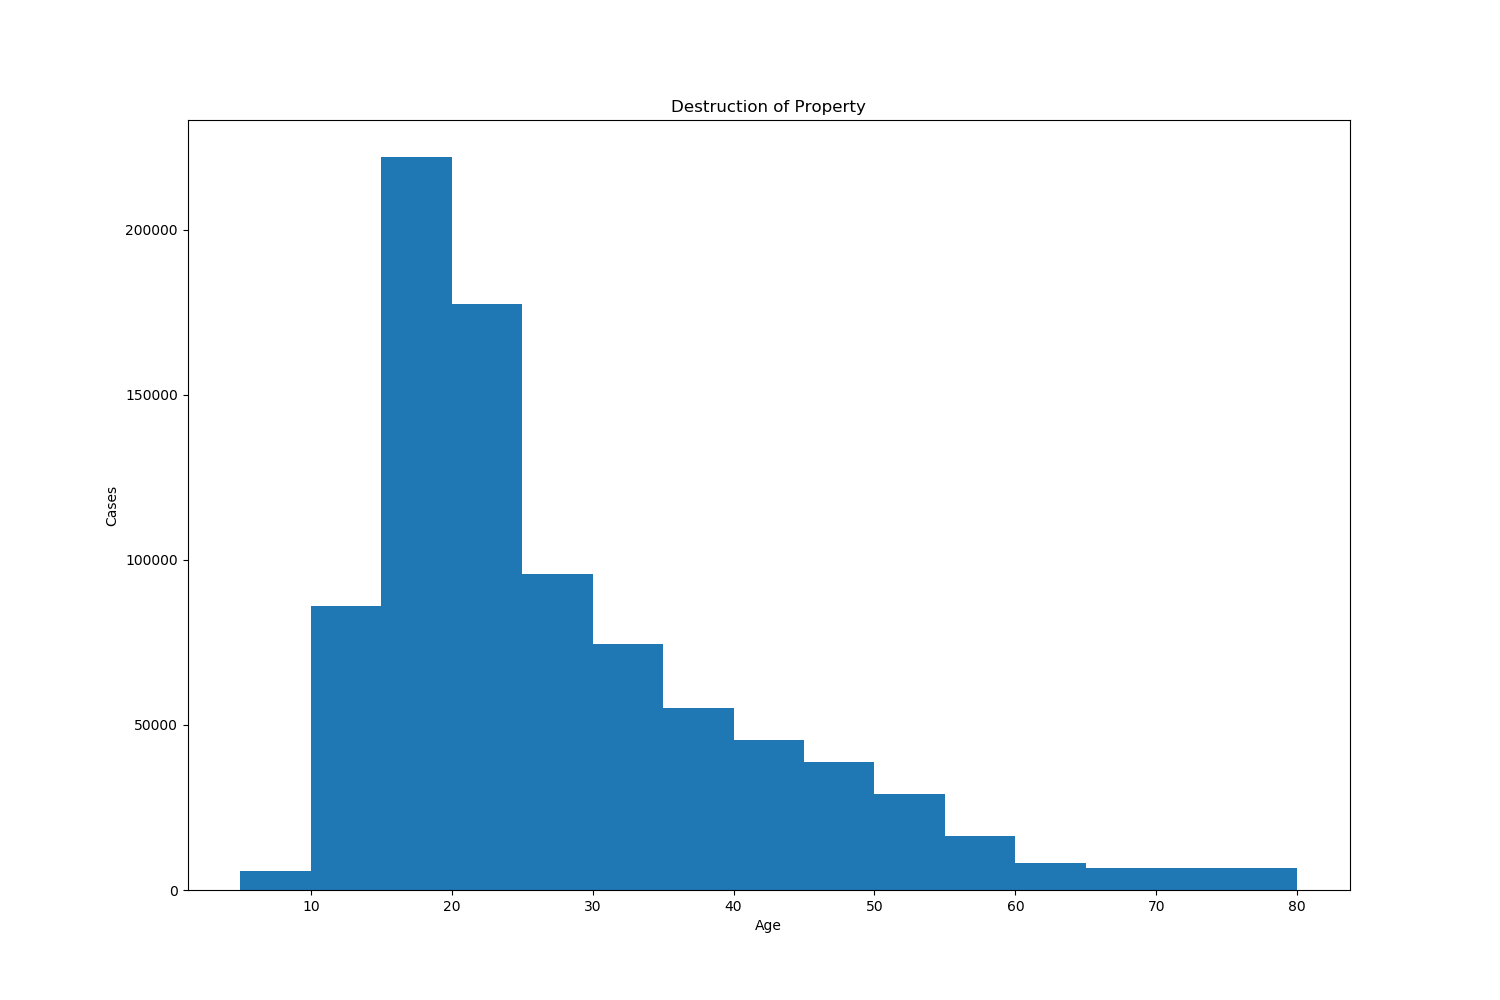
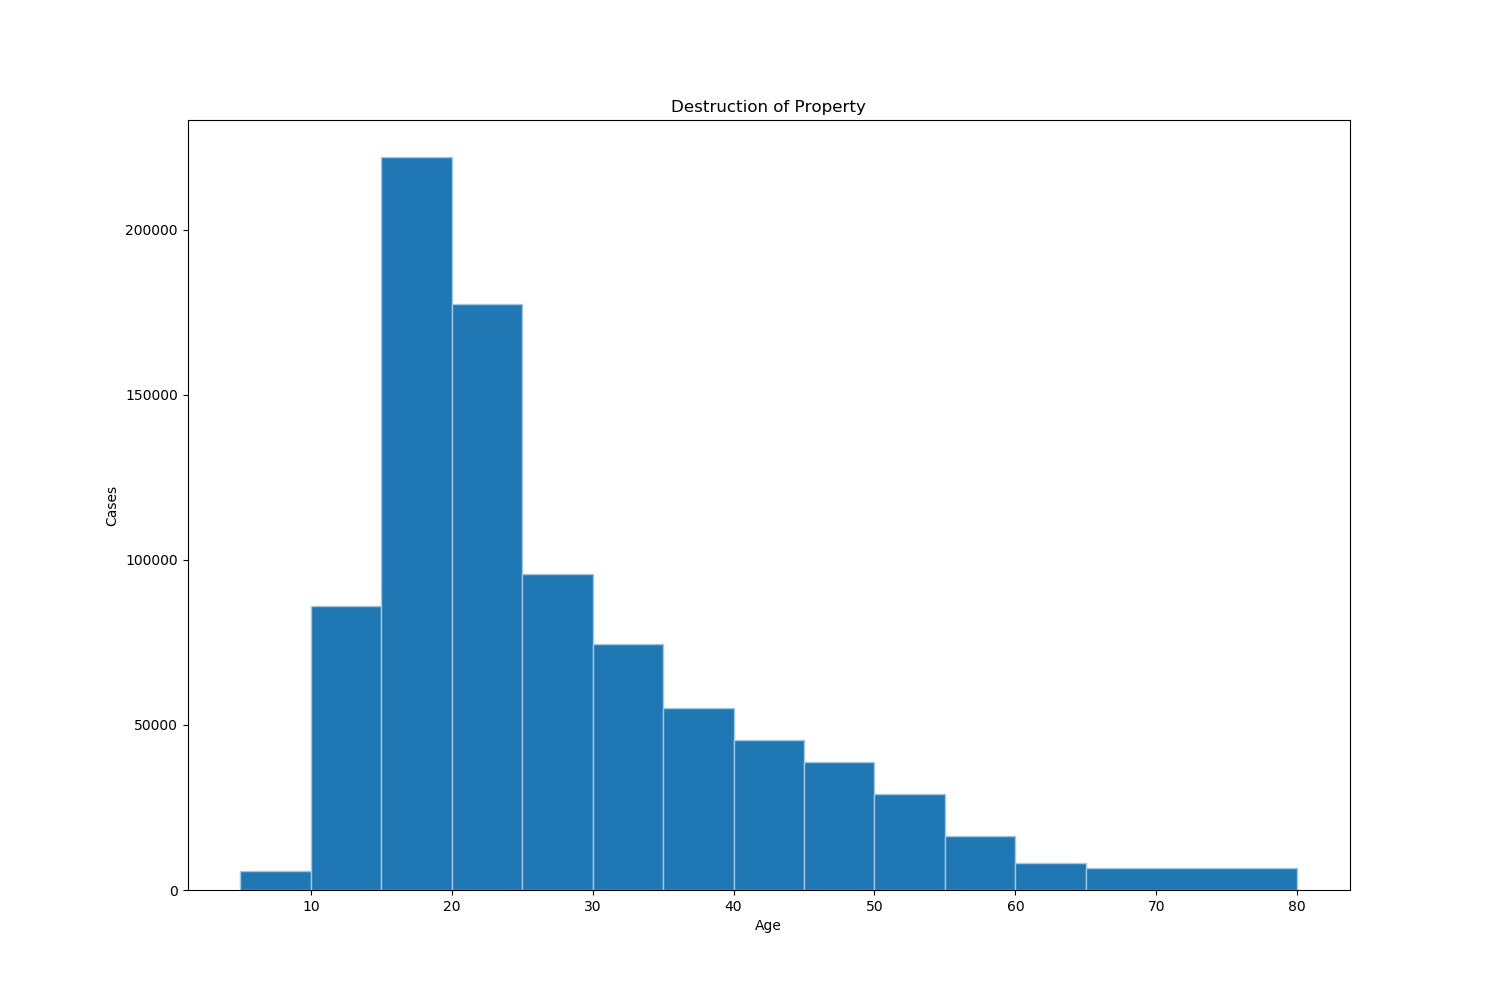
Distribution Search Algorithm Started

Changed region(s): [[0.6747, 0.837, 0.7053, 0.868]]

diff --git a/find_best_distribution.py b/find_best_distribution.py
@@ -1,0 +1,74 @@
+import warnings
+import numpy as np
+import pandas as pd
+import scipy.stats as st
+
+# Find best-fit distribution to data
+def best_fit_distribution(data, bins=200, ax=None):
+    # Get histogram of original data
+    y, x = np.histogram(data, bins=bins, density=True)
+
+    # Get center of each bin --------------------------------
+    x = (x + np.roll(x, -1))[:-1] / 2.0
+
+    # Distributions to check
+    distributions = [
+        st.alpha, st.anglit, st.arcsine, st.argus, st.beta, st.betaprime, st.bradford, st.burr, st.burr12, st.cauchy,
+        st.chi, st.chi2, st.cosine, st.crystalball, st.dgamma, st.dweibull, st.erlang, st.expon, st.exponnorm,
+        st.exponweib, st.exponpow, st.f, st.fatiguelife, st.fisk, st.foldcauchy, st.foldnorm, st.frechet_r,
+        st.frechet_l, st.genlogistic, st.gennorm, st.genpareto, st.genexpon, st.genextreme, st.gausshyper, st.gamma,
+        st.gengamma, st.genhalflogistic, st.geninvgauss, st.gilbrat, st.gompertz, st.gumbel_r, st.gumbel_l,
+        st.halfcauchy, st.halflogistic, st.halfnorm, st.halfgennorm, st.hypsecant, st.invgamma, st.invgauss,
+        st.invweibull, st.johnsonsb, st.johnsonsu, st.kappa4, st.kappa3, st.ksone, st.kstwobign, st.laplace, st.levy,
+        st.levy_l, st.levy_stable, st.logistic, st.loggamma, st.loglaplace, st.lognorm, st.loguniform, st.lomax,
+        st.maxwell, st.mielke, st.moyal, st.nakagami, st.ncx2, st.ncf, st.nct, st.norm, st.norminvgauss, st.pareto,
+        st.pearson3, st.powerlaw, st.powerlognorm, st.powernorm, st.rdist, st.rayleigh, st.rice, st.recipinvgauss,
+        st.semicircular, st.skewnorm, st.t, st.trapz, st.triang, st.truncexpon, st.truncnorm, st.tukeylambda,
+        st.uniform, st.vonmises, st.vonmises_line, st.wald, st.weibull_min, st.weibull_max, st.wrapcauchy
+    ]
+
+    # Best holders
+    best_distribution = None
+    best_params = None
+    best_residual_sum_of_squares = None
+
+    # Estimate distribution parameters from data
+    for distribution in distributions:
+
+        # Try to fit the distribution
+        try:
+            # Ignore warnings from data that can't be fit
+            with warnings.catch_warnings():
+                warnings.filterwarnings('ignore')
+
+                # fit dist to data
+                params = distribution.fit(data)
+
+                # Separate parts of parameters
+                arg = params[:-2]
+                loc = params[-2]
+                scale = params[-1]
+
+                # Calculate fitted PDF and error with fit in distribution
+                pdf = distribution.pdf(x, loc=loc, scale=scale, *arg)
+                residual_sum_of_squares = np.sum(np.power(y - pdf, 2.0))
+
+                # if axis pass in add to plot
+                try:
+                    if ax:
+                        pd.Series(pdf, x).plot(ax=ax)
+                except Exception:
+                    pass
+
+                # identify if this distribution is better
+                if best_residual_sum_of_squares > residual_sum_of_squares > 0:
+                    best_distribution = distribution
+                    best_params = params
+                    best_residual_sum_of_squares = residual_sum_of_squares
+
+        except Exception:
+            pass
+
+    return (best_distribution.name, best_params)
+
+

diff --git a/main.py b/main.py
@@ -330,8 +330,8 @@ def graph_correlation_between_drug_abuse_and_total_crime():
     drug_crime_count_list = np.array(object=temp_drug_crime_count_list)
 
     figure, axes = plt.subplots(nrows = 1, ncols = 1, figsize=(15,10))
-    axes.set_title("Correlation Between Drug Abuse and Total Crime Over Time")
-    axes.plot([2011, 2012, 2013, 2014, 2015, 2016], total_crime_count_list, linestyle="-", color="r", label="Total Crime")
+    axes.set_title("Correlation Between Drug Abuse and Other Crimes Over Time")
+    axes.plot([2011, 2012, 2013, 2014, 2015, 2016], total_crime_count_list, linestyle="-", color="r", label="Crimes Excluding Drug Abuse")
     axes.plot([2011, 2012, 2013, 2014, 2015, 2016], drug_crime_count_list, linestyle="-", color="m", label="Drug Abuse")
     axes.set_ylabel("Number of Cases")
     axes.set_xlabel("Year")
@@ -439,11 +439,9 @@ def graph_and_analyze_type_of_crime_vs_age(graph_title, offense_code_list):
     s10, f10t12, f13t14, e15, e16, e17, e18, e19, e20, e21, e22, e23, e24, f25t29, f30t34, f35t39, f40t44, f45t49, f50t54, f55t59, f60t64, f65t80
     figure, axes = plt.subplots(nrows=1, ncols=1, figsize=(15, 10))
     axes.set_title(graph_title)
-    axes.hist(x=generated_data, bins=[5, 10, 15, 20, 25, 30, 35, 40, 45, 50, 55, 60, 65, 80])
-    axes.set_ylabel("Cases")
+    axes.hist(x=generated_data, bins=[5, 10, 15, 20, 25, 30, 35, 40, 45, 50, 55, 60, 65, 80], edgecolor="#a5c8e1")
+    axes.set_ylabel("Number of Cases")
     axes.set_xlabel("Age")
-
-
 
     figure.savefig(fname="graphs/" + re.sub(pattern="\s+", repl="_", string=axes.get_title()))
 
@@ -474,7 +472,7 @@ if __name__ == "__main__":
     graph_and_analyze_type_of_crime_vs_age("Fraud", ["100", "110"])
     graph_and_analyze_type_of_crime_vs_age("Drug Abuse", ["18", "180", "181", "182", "183", "184", "185", "186", "187", "188", "189"])
     graph_and_analyze_type_of_crime_vs_age("Gambling", ["19", "191", "192", "193"])
-    graph_and_analyze_type_of_crime_vs_age("Driving Under the Influence", "210")
+    graph_and_analyze_type_of_crime_vs_age("Driving Under the Influence", ["210"])
 
     print("Done!")
 
